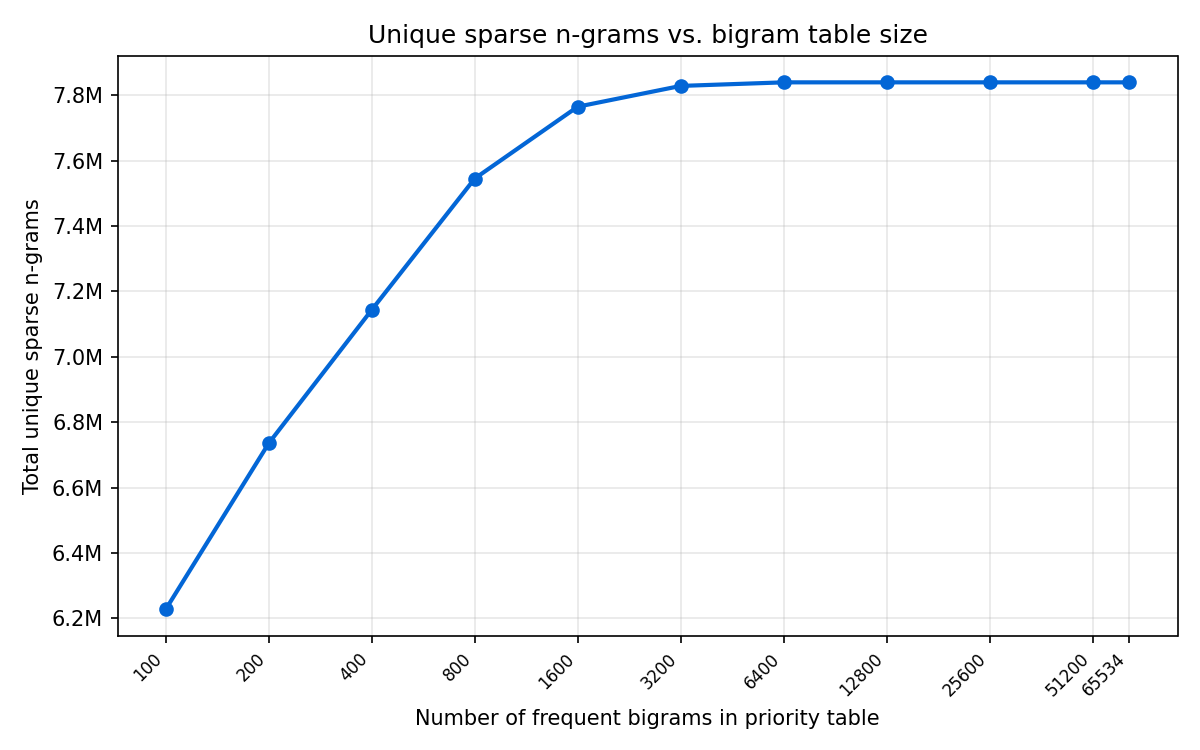
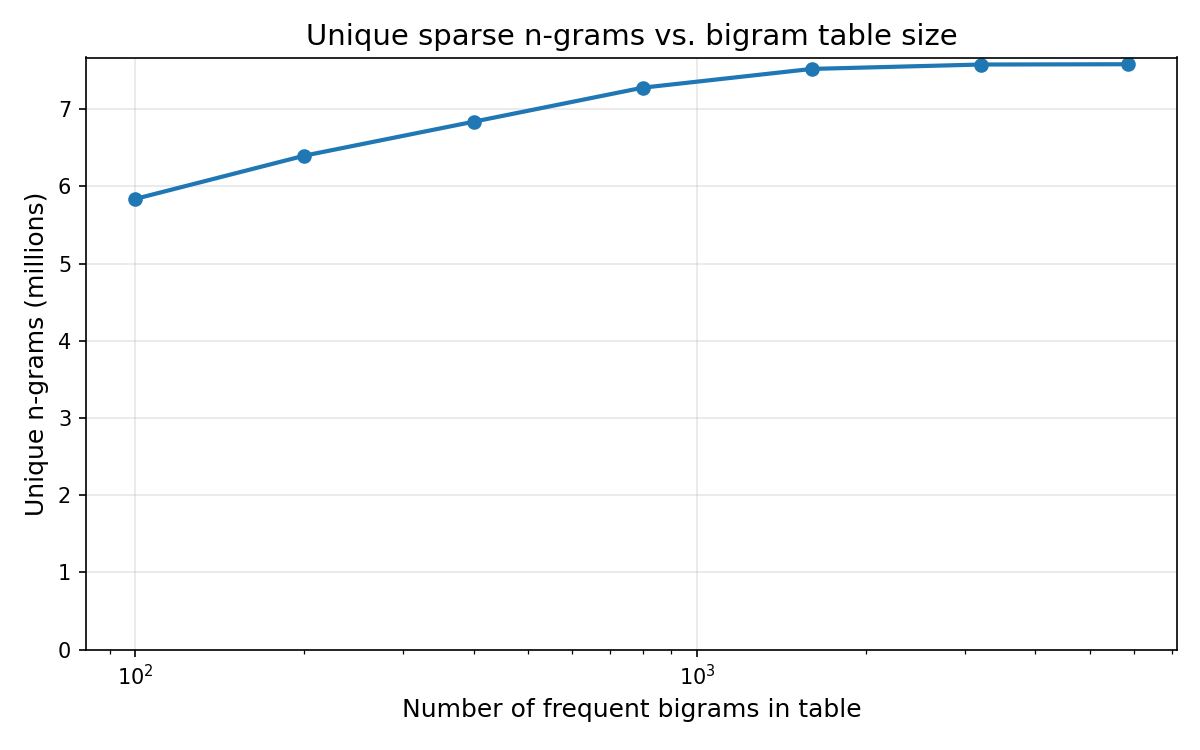
update readme + graphs

diff --git a/crates/sparse-ngrams/README.md b/crates/sparse-ngrams/README.md
@@ -10,9 +10,7 @@ For background, see:
 
 ## Caveats
 
-The integrated bigram table contains only lowercase, ascii characters.
-Therefore, the implementation is meant to be used for a case insensitive search index.
-One can expect a case sensitive index to be significantly larger.
+The integrated bigram table contains only lowercase ASCII bigrams. Callers should lowercase and normalize input before extraction (e.g. fold uppercase to lowercase, map non-ASCII bytes to a single sentinel value). This makes the implementation suitable for case-insensitive search indexes.
 
 ## How it works
 
@@ -56,16 +54,16 @@ The priority table maps byte pairs to frequency-based priorities. Increasing the
 
 | Table size | Unique n-grams | % of max |
 |-----------|-----------------|----------|
-| 100       | 6.2M            | 79.4%    |
-| 200       | 6.7M            | 85.9%    |
-| 400       | 7.1M            | 91.1%    |
-| 800       | 7.5M            | 96.2%    |
-| 1,600     | 7.8M            | 99.0%    |
-| 3,200     | 7.8M            | 99.9%    |
-| 5,845     | 7.8M            | 100%     |
+| 100       | 5.8M            | 77.0%    |
+| 200       | 6.4M            | 84.4%    |
+| 400       | 6.8M            | 90.2%    |
+| 800       | 7.3M            | 96.0%    |
+| 1,600     | 7.5M            | 99.2%    |
+| 3,200     | 7.6M            | 99.9%    |
+| 5,845     | 7.6M            | 100%     |
 
-The current bigram table contains only the first 5,845 most frequent lowercase ascii bigrams.
-But the table shows that bigrams start to saturate past after the first thousand bigrams.
+The current bigram table contains the 5,845 most frequent bigrams from a large code corpus.
+The table saturates quickly — the first ~1,600 bigrams already capture 99% of the unique n-grams.
 
 ## Maximum n-gram length
 
@@ -75,16 +73,16 @@ Increasing the maximum n-gram length produces more unique longer grams, with dim
 
 | Max length | Unique n-grams | vs. len=8 |
 |-----------|---------------|-----------|
-| 2         | 1.4M          | 18%       |
-| 3         | 4.6M          | 59%       |
-| 4         | 5.8M          | 74%       |
-| 6         | 7.1M          | 90%       |
-| 8         | 7.8M          | 100%      |
-| 12        | 8.7M          | 111%      |
-| 16        | 9.2M          | 118%      |
-| 24        | 9.8M          | 124%      |
-| 32        | 10.0M         | 128%      |
-| 48        | 10.3M         | 131%      |
-| 64        | 10.4M         | 132%      |
+| 2         | 1.2M          | 16%       |
+| 3         | 4.1M          | 54%       |
+| 4         | 5.3M          | 70%       |
+| 6         | 6.8M          | 89%       |
+| 8         | 7.6M          | 100%      |
+| 12        | 8.5M          | 113%      |
+| 16        | 9.1M          | 120%      |
+| 24        | 9.7M          | 128%      |
+| 32        | 10.1M         | 133%      |
+| 48        | 10.4M         | 137%      |
+| 64        | 10.5M         | 139%      |
 
-The default of 8 captures most of the discriminative power. Going to 16 adds ~18% more unique grams but doubles the scan window; going to 64 adds only ~32% total.
+The default of 8 captures most of the discriminative power. Going to 16 adds ~20% more unique grams but doubles the scan window; going to 64 adds only ~39% total.